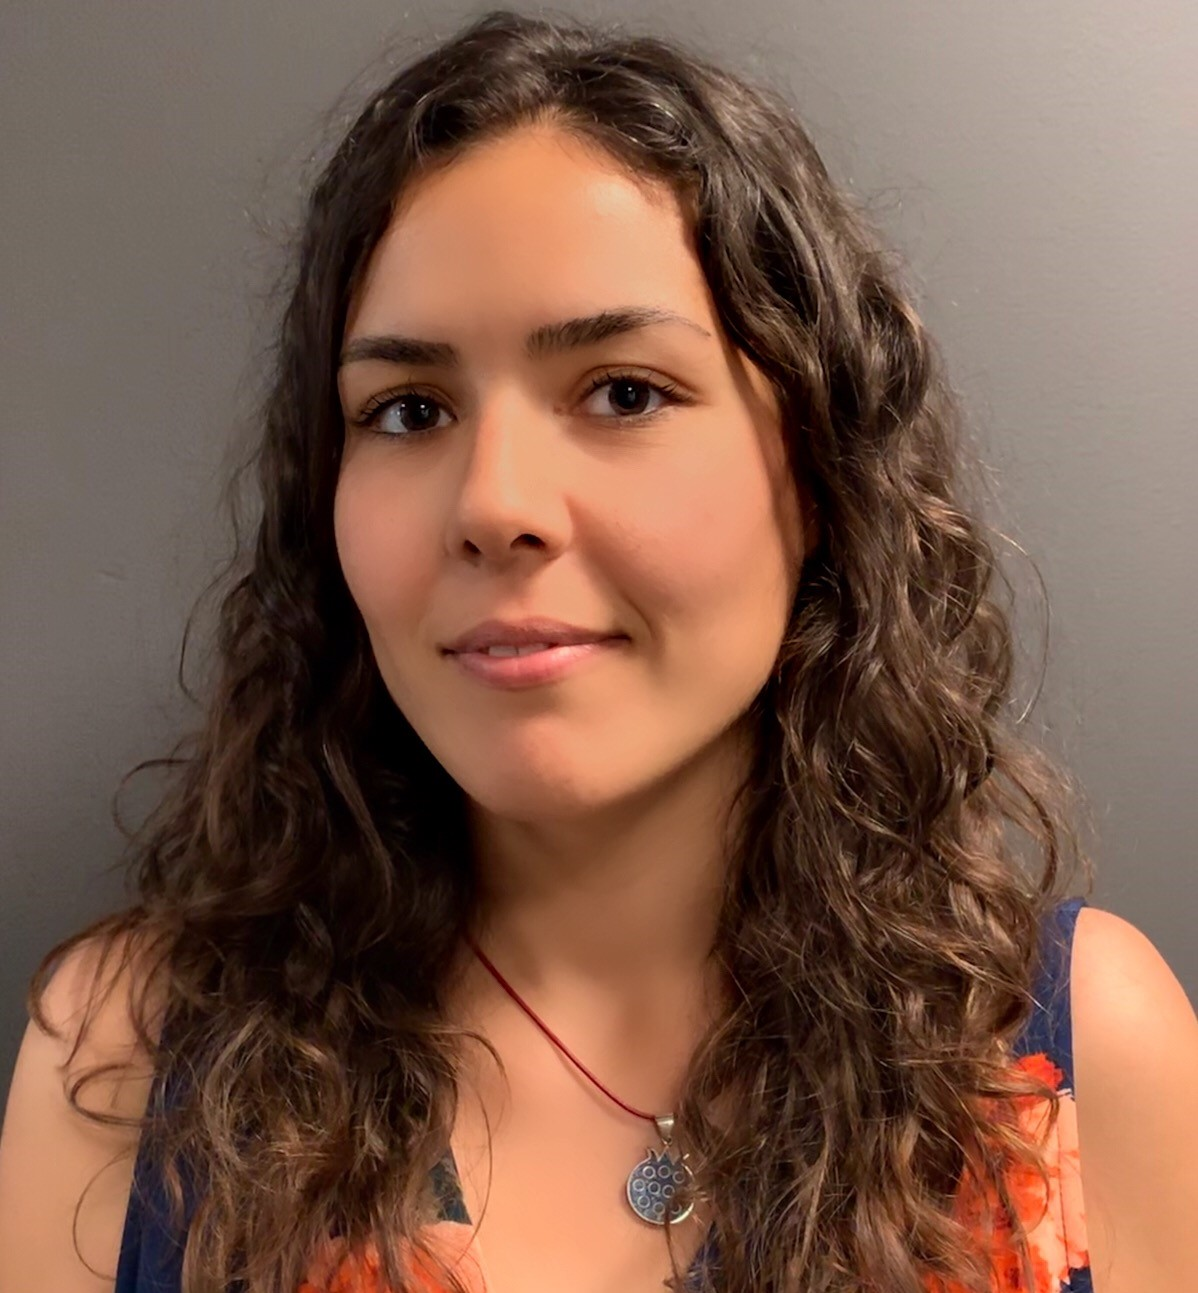
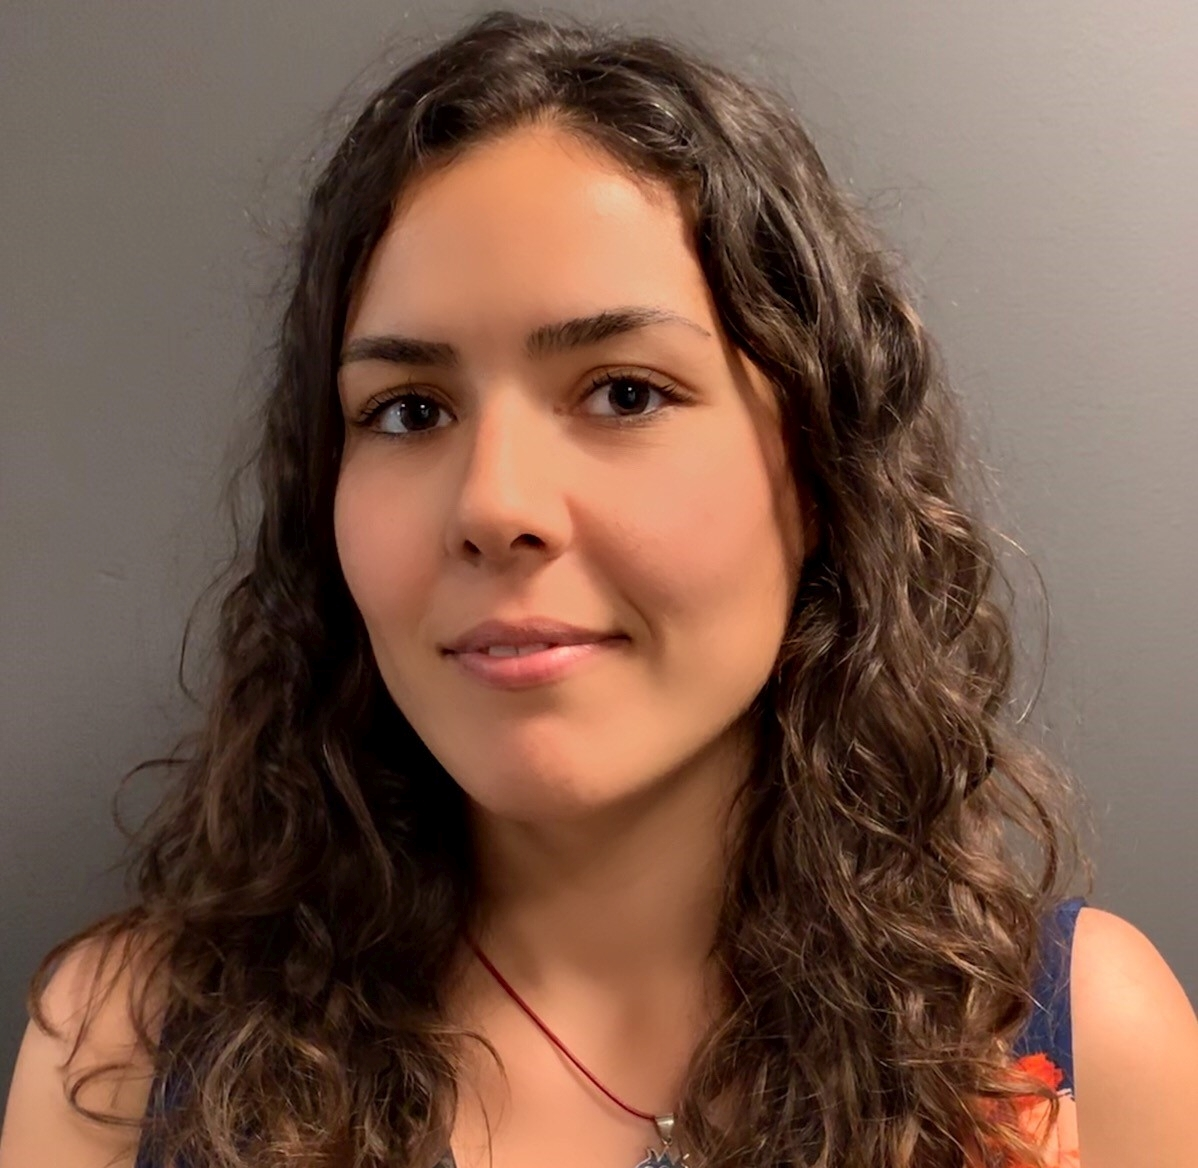
z

diff --git a/happilab/members2.html b/happilab/members2.html
@@ -31,7 +31,7 @@
 <table border=0>
 <tr>
 <td width="300" align="center">
-<img src="radek.jpg" width="170">
+<img src="radek.jpg" width="120">
 </td>
 <td width="300 align="center"">
 </td>
@@ -55,14 +55,12 @@
 <td width="200" align="center">
 <img src="Hunter.jpg" height="120"> </td>
 <td width="300" align="center">
-<img src="" height="120"></td>
+<img src="Irem.jpg" height="120"></td>
 <td width="200" align="center"></td>
 </tr>
 <tr>
-<td width="300" align="center">
-<A id="content5" href="">Hunter Fong</a> <br><br> Post-doc <br> University of Genoa  </td>
-<td width="300" align="center"> İrem Arıcı <br><br> PhD student <br> University of Genoa 
-</td>
+<td width="300" align="center"> <A id="content5" href="https://scholar.google.com/citations?hl=en&user=g2HYjvAAAAAJ"> Hunter Fong</a> <br><br> Post-doc <br> University of Genoa  </td>
+<td width="300" align="center"> <A id="content5" href="https://www.linkedin.com/in/ariciirem/"> İrem Arıcı </a> <br><br> PhD student <br> University of Genoa  </td>
 <td width="300" align="center">
 </td>
 </tr>
@@ -72,54 +70,35 @@
 
 <table border=0>
 <tr>
-<td width="300" align="center">
-<img src="kheder2.jpg" height="120"> </td>
-<td width="300" align="center">
-<img src="Albana.jpg" height="120"></td>
+<td width="300" align="center"><img src="Sina.jpg" height="120"> </td>
+<td width="300" align="center"><img src="Erfan.jpg" height="120"></td>
 <td width="300" align="center"></td>
 </tr>
 <tr>
-<td width="300" align="center">
-<A id="content5" href="https://it.linkedin.com/in/kheder-yazgi-0088b9133">Kheder Yazgi</a> <br><br> Student <br> University of Trento  </td>
-<td width="300" align="center">
-<A id="content5" href="https://it.linkedin.com/in/hoxhaalbana">Albana Hoxha</a> <br><br> Student <br> University of Trento 
-</td>
-<td width="300" align="center">
-</td>
+<td width="300" align="center"><A id="content5" href="https://www.linkedin.com/in/sina-hatami/"> Sina Hatami </a> <br> <br> Student <br> University of Genoa </td>
+<td width="300" align="center"><A id="content5" href="https://www.linkedin.com/in/erfanfathi/">  Erfan Fathi  </a> <br> <br> Student <br> University of Genoa </td>
+<td width="300" align="center"></td>
 </tr>
 </table >
-
 
 <H1>Collaborators</H1>
 <table border=0>
 <tr>
 <td width="300" align="center">
 <img src="Cigdem.jpg" height="120"> </td>
-<td width="300" align="center">
-<img src="Marina.jpg" height="120"> 
-</td>
 <td width="300" align="center"></td>
 </tr><tr>
-<td width="300" align="center" >  <A id="content5" href="https://cbeyan.github.io/"> Cigdem Beyan </a> <br> <br> Tenure-track Assistant Prof. <br> University of Bergamo </td>
-<td width="300" align="center" >  <A id="content5" href="https://www.linkedin.com/in/marina-tyuleneva/"> Marina Tiuleneva  </a>  <br><br> Student <br> University of Trento</td>
+<td width="300" align="center" >  <A id="content5" href="https://cbeyan.github.io/"> Cigdem Beyan </a> <br> <br> Associate Prof. <br> University of Verona </td>
+<td width="300" align="center"></td>
 <td width="300" align="center"></td>
 </tr>
 </table >
 
-<H1>Former members</H1>
+<H1>Former members and students </H1>
 <table >
-<tr>
-<td width="300"></td>
-<td width="300"  height="100"></td>
-<td width="300"></td>
-</tr>
-
-<tr>
-<td width="300" align="center"></td>
-<td width="300" align="center"></td>
-<td width="300" align="center"></td>
-</tr>
-
+<tr><td width="300" align="left" >  <A id="content5" href="https://www.linkedin.com/in/marina-tyuleneva/"> Marina Tiuleneva  </a>  </td></tr>
+<tr><td width="300" align="left" ><A id="content5" href="https://it.linkedin.com/in/kheder-yazgi-0088b9133">Kheder Yazgi</a>  </td></tr>
+<tr><td width="300" align="left" ><A id="content5" href="https://it.linkedin.com/in/hoxhaalbana">Albana Hoxha</a></td></tr>
 </table>
 
 </div>

diff --git a/happilab/happilab.html b/happilab/happilab.html
@@ -42,48 +42,18 @@ genuinely helpful or simply enjoyable. </br>
 </br>
 </br>
 
-<img src="News.jpg" height="60">
-
-</br>
-</br>
-<p id="content2">
-<ul>
-  <li>
-<span class="scroll-title-if">
-[1 June 2024] AVI 2024
-</span></br>
-Our four papers were accepted to 17th International Conference on Advanced Visual Interfaces! See you in Arenzano!
-<br><br><br>
-</li>
-  <li>
-<span class="scroll-title-if">
-[1 April 2024] new workshop at ICMI2024
-</span></br>
-I am delighted to announce our new workshop initiative: the First Multimodal Banquet: Exploring Innovative Technology for Commensality and Human-Food Interaction (CoFI2024), which will be held in conjunction with ICMI2024 in Costa Rica. Website: https://cofi2024.github.io
-<br><br><br>
-</li>
-
-  <li>
-<span class="scroll-title-if">
-[27 November 2023] Open Positions
-</span></br>
-We are hiring research assistants (fellowships) for our project COmputational Models of COmmensality for Artificial Agents (COCOA). 
-Please contact the coordinator for more details. 
-<br><br><br>
-</li>
-<li>
-<span class="scroll-title-if">
-[23 August 2023] New paper on emotion recognition
-</span></br>
-Our paper <a href="https://ieeexplore.ieee.org/abstract/document/10227296/"> 
-Unleashing the Transferability Power of Unsupervised Pre-Training for Emotion Recognition in Masked and Unmasked Facial Images</a> 
-was just accepted to IEEE Access.
-<br><br><br>
-</li>
-</ul> 
-</br>
 <p id="content7">
+News and Updates:  <a href="https://www.linkedin.com/in/radoslaw-niewiadomski-b40522a/">LinkedIn</a>  and
+ <a href="https://bsky.app/profile/happilab.bsky.social">BlueSky</a> 
+</td>
+</tr>
+</table>
+</br>
+</br>
+</br>
 Read more about our ongoing and past projects <a href="projects.html">here</a>.
+</br>
+</br>
 </br>
 Check our list of available <a href="..\new_topics.pdf">Master thesis and/or interships</a> at the University of Genoa.
 </p>
